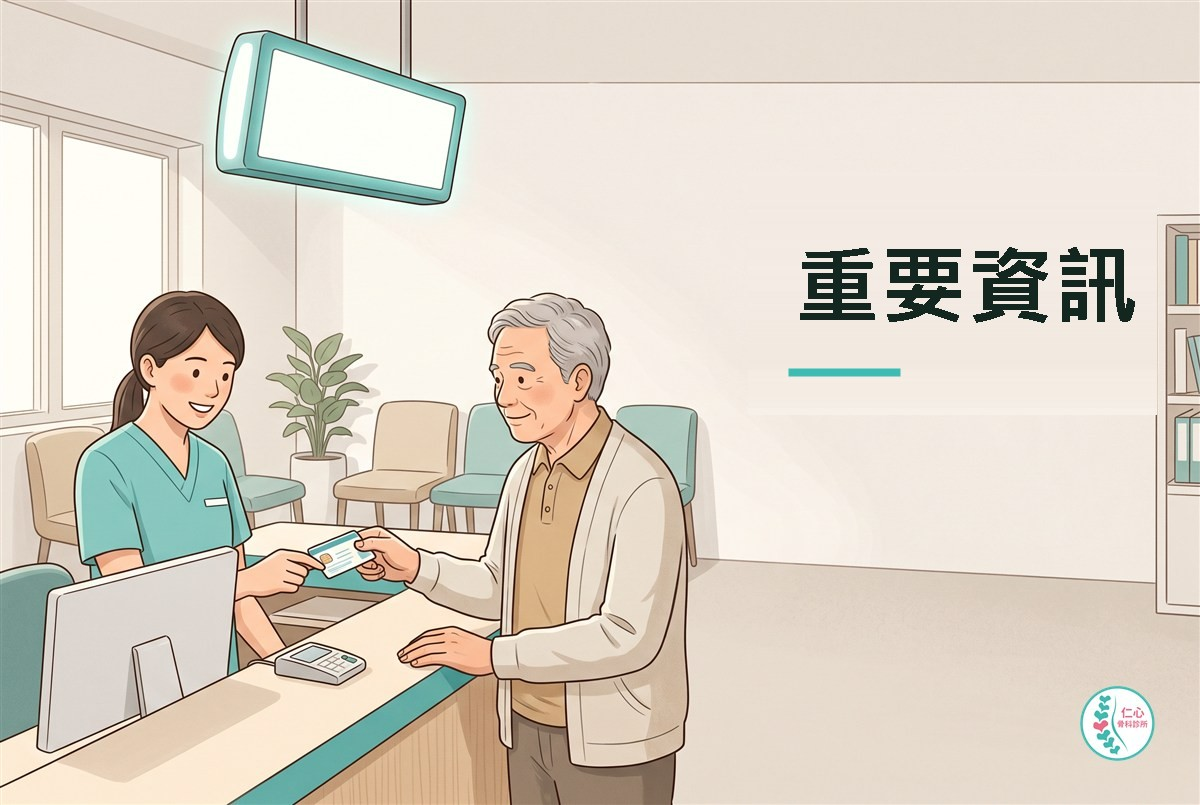
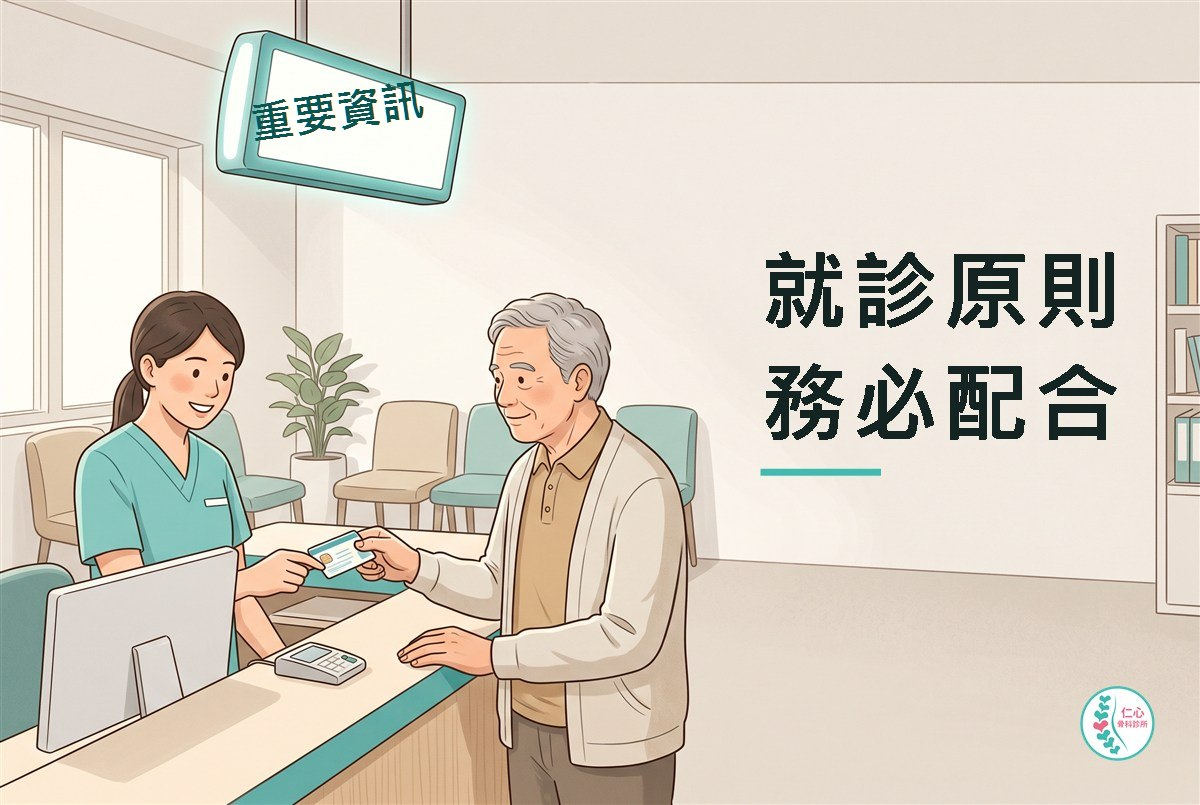
封面圖加版本號，換圖之後瀏覽器與 CDN 會抓新檔
圖片的快取是四小時，之前換了封面但看到的還是舊圖。
首頁卡片由 build.mjs 自動加 ?v=<hash>，文章頁的 img 也補上。
另外新增 tools/cover-sign.ps1：可以把字寫進插畫裡的招牌或顯示燈（支援旋轉角度）。

Changed region(s): [[0.6167, 0.4348, 0.925, 0.5901], [0.6167, 0.3106, 0.9558, 0.4037], [0.2158, 0.0932, 0.37, 0.1863]]

diff --git a/public/index.html b/public/index.html
@@ -221,7 +221,7 @@
       <div class="card-grid">
 <!-- POSTS:START -->
         <a class="card" href="20260901-calcific-tendonitis/" data-tag="骨科仁心">
-          <span class="card-cover"><img src="20260901-calcific-tendonitis/assets/cover.jpg" alt="" loading="lazy" decoding="async"></span>
+          <span class="card-cover"><img src="20260901-calcific-tendonitis/assets/cover.jpg?v=ddc7fbda" alt="" loading="lazy" decoding="async"></span>
           <span class="card-body">
             <span class="tag">骨科仁心</span>
             <h3>手指也會長石頭？</h3>
@@ -235,7 +235,7 @@
           </span>
         </a>
         <a class="card" href="20260903-fall-tailbone/" data-tag="骨科仁心">
-          <span class="card-cover"><img src="20260903-fall-tailbone/assets/cover.jpg" alt="" loading="lazy" decoding="async"></span>
+          <span class="card-cover"><img src="20260903-fall-tailbone/assets/cover.jpg?v=6f88f14e" alt="" loading="lazy" decoding="async"></span>
           <span class="card-body">
             <span class="tag">骨科仁心</span>
             <h3>跌倒頓ㄤ龜</h3>
@@ -249,7 +249,7 @@
           </span>
         </a>
         <a class="card" href="20260802-clinic-guide/" data-tag="診所公告">
-          <span class="card-cover"><img src="20260802-clinic-guide/assets/cover.jpg" alt="" loading="lazy" decoding="async"></span>
+          <span class="card-cover"><img src="20260802-clinic-guide/assets/cover.jpg?v=37a4671a" alt="" loading="lazy" decoding="async"></span>
           <span class="card-body">
             <span class="tag">診所公告</span>
             <h3>就診原則，務必配合</h3>

diff --git a/public/20260901-calcific-tendonitis/index.html b/public/20260901-calcific-tendonitis/index.html
@@ -52,7 +52,7 @@
         <h1>手指也會長石頭？</h1>
 
         <figure class="hero-figure hero-figure--cover">
-          <img src="assets/cover.jpg"
+          <img src="assets/cover.jpg?v=ddc7fbda"
                width="1200" height="805" loading="eager" decoding="async" fetchpriority="high"
                alt="插畫：一位中年女性抬起左手看著自己的拇指，拇指根部泛紅，表情困惑不安；畫面左側是文章標題「手指也會長石頭？」。">
         </figure>

diff --git a/public/20260903-fall-tailbone/index.html b/public/20260903-fall-tailbone/index.html
@@ -52,7 +52,7 @@
         <h1>跌倒頓ㄤ龜</h1>
 
         <figure class="hero-figure hero-figure--cover">
-          <img src="assets/cover.jpg"
+          <img src="assets/cover.jpg?v=6f88f14e"
                width="1200" height="805" loading="eager" decoding="async" fetchpriority="high"
                alt="插畫：一位長輩在濕滑的磁磚地上跌坐，屁股著地處泛紅，表情疼痛而錯愕，右上方寫著「跌倒頓ㄤ龜」。">
         </figure>

diff --git a/public/20260802-clinic-guide/index.html b/public/20260802-clinic-guide/index.html
@@ -55,7 +55,7 @@
         </p>
 
         <figure class="hero-figure hero-figure--cover">
-          <img src="assets/cover.jpg"
+          <img src="assets/cover.jpg?v=37a4671a"
                width="1200" height="805" loading="eager" decoding="async" fetchpriority="high"
                alt="插畫：診所櫃台，醫護人員微笑接過長輩遞來的健保卡，右側牆面寫著「重要資訊」。">
         </figure>
